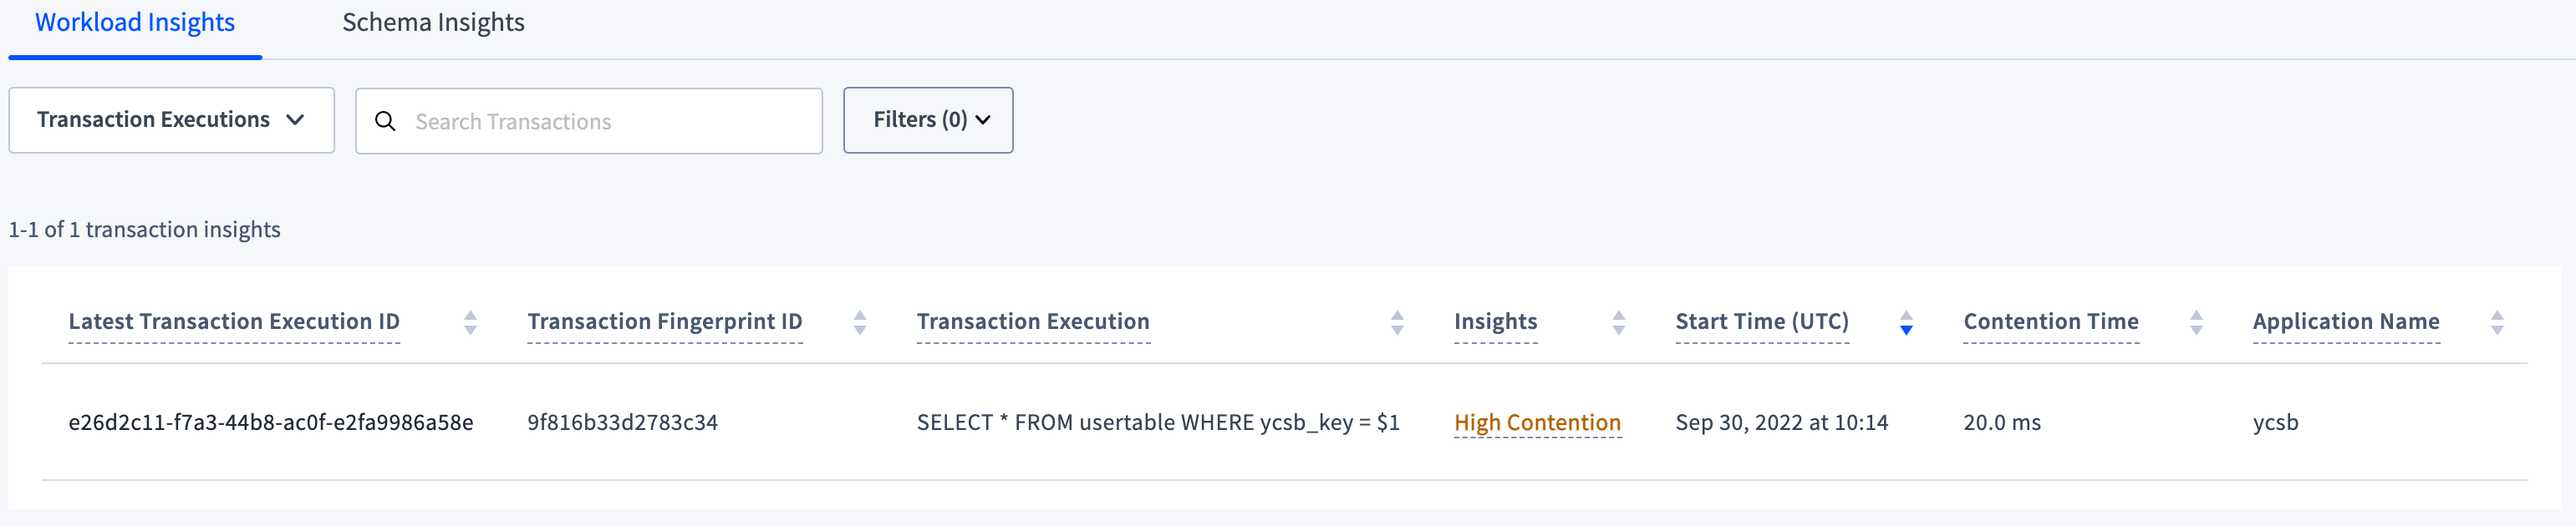
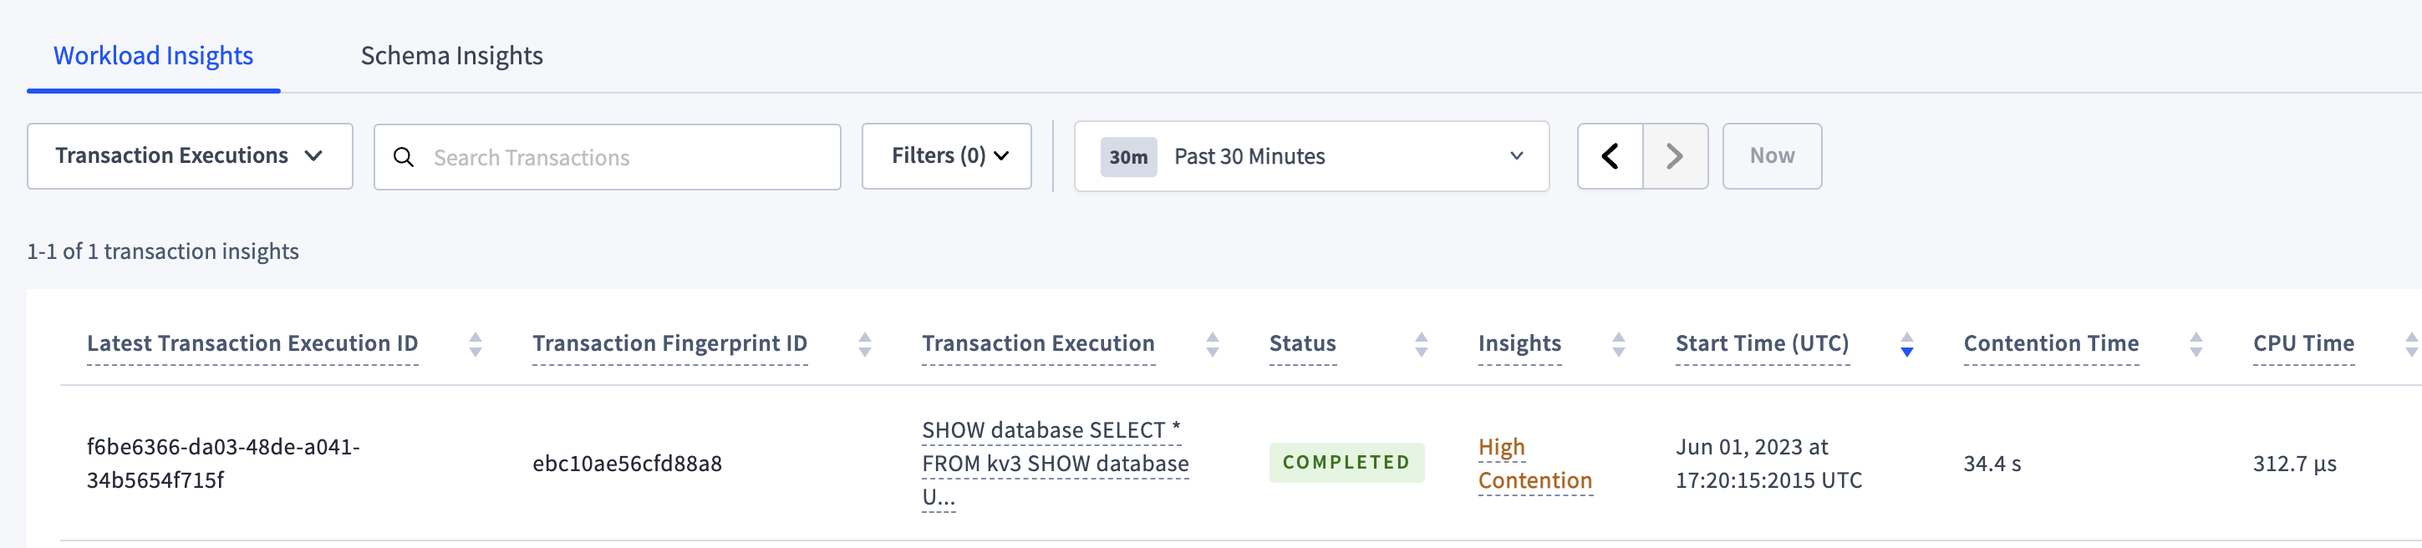
Re-worked Insights page regarding Workload Insight. (1) Replaced table crdb_internal.transaction_execution_insights with crdb_internal.cluster_txn_execution_insights. (2) Added Statement Execution with ID {transaction ID} waited on section. (3) Changed Statement Execution Details section to header 3

diff --git a/src/current/_includes/v23.1/ui/insights.md b/src/current/_includes/v23.1/ui/insights.md
@@ -15,19 +15,11 @@ To display this view, click **Insights** in the left-hand navigation of the Clou
 The **Transaction Executions** view provides an overview of all [transaction executions]({{ link_prefix }}transactions.html) that have been flagged with insights.
 
 {{site.data.alerts.callout_info}}
-The rows in this page are populated from the [`crdb_internal.transaction_contention_events`]({{ link_prefix }}crdb-internal.html#transaction_contention_events) and  `crdb_internal.transaction_execution_insights` tables.
+The rows in this page are populated from the [`crdb_internal.transaction_contention_events`]({{ link_prefix }}crdb-internal.html#transaction_contention_events) and  `crdb_internal.cluster_txn_execution_insights` tables.
 
-- The results displayed in the **Transaction Executions** view will be available as long as a corresponding row in the `crdb_internal.transaction_contention_events` or `crdb_internal.transaction_execution_insights` tables exists. The rows in `crdb_internal.transaction_contention_events` on each node must use less space than `sql.contention.event_store.capacity`, and the rows in `crdb_internal.transaction_contention_events` cannot exceed `sql.insights.execution_insights_capacity`.
+- The results displayed in the **Transaction Executions** view will be available as long as a corresponding row in the `crdb_internal.transaction_contention_events` or `crdb_internal.cluster_txn_execution_insights` tables exists. The rows in `crdb_internal.transaction_contention_events` on each node must use less space than `sql.contention.event_store.capacity`, and the rows in `crdb_internal.transaction_contention_events` cannot exceed `sql.insights.execution_insights_capacity`.
 - The default tracing behavior captures a small percent of transactions so not all contention events will be recorded. When investigating [transaction contention]({{ link_prefix }}performance-best-practices-overview.html#transaction-contention), you can set the [`sql.trace.txn.enable_threshold` cluster setting]({{ link_prefix }}cluster-settings.html#setting-sql-trace-txn-enable-threshold) to always capture contention events.
 {{site.data.alerts.end}}
-
-Transaction executions with the **High Contention** insight are transactions that experienced [contention]({{ link_prefix }}performance-best-practices-overview.html#transaction-contention).
-
-{% if page.cloud != true -%}
-The following screenshot shows the execution of a transaction flagged with **High Contention**:
-
-<img src="{{ 'images/v23.1/transaction_execution.png' | relative_url }}" alt="Transaction execution" style="border:1px solid #eee;max-width:100%" />
-{% endif -%}
 
 To view [details of the execution](#transaction-execution-details), click an execution ID in the **Latest Transaction Execution ID** column.
 
@@ -35,40 +27,41 @@ To view [details of the execution](#transaction-execution-details), click an exe
 - **Transaction Fingerprint ID**: The transaction fingerprint ID of the latest transaction execution.
 - **Transaction Execution**: The transaction fingerprint of the latest transaction execution.
 - **Status**: The status of the transaction: `Failed` or `Completed`.
-- **Insights**: The insight for the transaction execution.
-  - **High Contention**: The transaction execution experienced high [contention]({{ link_prefix }}performance-best-practices-overview.html#transaction-contention) time according to the threshold set in the [`sql.insights.latency_threshold` cluster setting]({{ link_prefix }}cluster-settings.html#setting-sql-insights-latency-threshold).
-  - **Suboptimal Plan**: The plan could be improved for some statement(s) in the transaction. Possible causes include outdated statistics and missing indexes.
-  - **Slow Execution**: The transaction had one or more statements that took longer than the value of the [`sql.insights.latency_threshold` cluster setting]({{ link_prefix }}cluster-settings.html#setting-sql-insights-latency-threshold) to execute.
-  - **Failed Execution**: The transaction execution failed.
+- **Insights**: The [insight type](#workload-insight-types) for the transaction execution.
 - **Start Time (UTC)**: The timestamp when the transaction execution started.
 - **Contention Time**: The amount of time the transaction execution spent waiting in [contention]({{ link_prefix }}performance-best-practices-overview.html#transaction-contention).
 - **CPU Time**: The amount of CPU time spent executing the transaction. The CPU time represents the time spent and work done within SQL execution operators.
 - **Application Name**: The name specified by the [`application_name` session setting]({{ link_prefix }}show-vars.html#supported-variables).
 
-### Transaction execution details
+### Transaction Execution details
 
 The transaction execution details view provides more details on a transaction execution insight.
 
-{% if page.cloud != true -%}
-The following screenshot shows the execution details of the transaction execution in the preceding section:
+- **Start Time**: The timestamp when the transaction execution started.
+- **End Time**: The timestamp when the transaction execution ended.
+- **Elapsed Time**: The time that elapsed during transaction execution.
+- **CPU Time**: The amount of CPU time spent executing the transaction. The CPU time represents the time spent and work done within SQL execution operators.
+- **Rows Read**: The total number of rows read by the transaction execution.
+- **Rows Written**: The total number of rows written by the transaction execution.
+- **Priority**: The [priority]({{ link_prefix }}transactions.html#set-transaction-priority) of the transaction execution.
+- **Number of Retries**: The total number of retries of the transaction.
+- **Session ID**: The ID of the [session]({{ link_prefix }}ui-sessions-page.html) the transaction was executed from.
+- **Application**: The name specified by the [`application_name` session setting]({{ link_prefix }}show-vars.html#supported-variables).
+- **Transaction Fingerprint ID**: The fingerprint ID of the transaction execution.
 
-<img src="{{ 'images/v22.2/transaction_execution_details.png' | relative_url }}" alt="Transaction execution details" style="border:1px solid #eee;max-width:100%" />
-{% endif -%}
-
-The **Insights** column shows the name of the insight, in this case **High Contention**; the **Details** column provides details on the insight.
-
-- **Start Time (UTC)**: The time the transaction execution started.
-- **Transaction Fingerprint ID**: The transaction fingerprint ID of the transaction execution.
+The **Insights** column shows the name of the insight. The **Details** column provides details on the insight.
 
 #### Transaction with ID {transaction ID} waited on
 
-This section provides details of the transaction executions that block the transaction ID flagged with **High Contention**:
+This section provides details of the transaction executions that block the transaction ID flagged with [**High Contention**](#high-contention):
 
 - **Transaction Execution ID**: The execution ID of the blocking transaction execution.
 - **Transaction Fingerprint ID**: The transaction fingerprint ID of the blocking transaction execution.
+- **Statement Waiting Execution ID**: The execution ID of the waiting statement.
+- **Statement Waiting Fingerprint ID**: The statement fingerprint ID of the waiting statement.
 - **Transaction Execution**: The queries attempted in the transaction.
 - **Contention Start Time (UTC)**: The timestamp at which [contention]({{ link_prefix }}performance-best-practices-overview.html#transaction-contention) was detected for the transaction.
-- **Contention Time**: The time transactions with this execution ID was [in contention]({{ link_prefix }}performance-best-practices-overview.html#understanding-and-avoiding-transaction-contention) with other transactions within the specified time interval.
+- **Contention Time**: The time that transactions with this execution ID were [in contention]({{ link_prefix }}performance-best-practices-overview.html#understanding-and-avoiding-transaction-contention) with other transactions within the specified time interval.
 - **Schema Name**: The name of the contended schema.
 - **Database Name**: The name of the contended database.
 - **Table Name**: The name of the contended table.
@@ -96,26 +89,12 @@ The rows in this page are populated from the [`crdb_internal.cluster_execution_i
 {% endif %}
 {{site.data.alerts.end}}
 
-{% if page.cloud != true -%}
-The following screenshot shows the statement execution of the query described in [Use the right index]({{ link_prefix }}apply-statement-performance-rules.html#rule-2-use-the-right-index):
-
-<img src="{{ 'images/v22.2/statement_executions.png' | relative_url }}" alt="Statement execution" style="border:1px solid #eee;max-width:100%" />
-{% endif -%}
-
 To view [details of the execution](#statement-execution-details), click an execution ID in the **Statement Execution ID** column.
 
 - **Statement Execution ID**: The execution ID of the latest execution with the statement fingerprint.
 - **Statement Fingerprint ID**: The statement fingerprint ID of the latest statement execution.
 - **Statement Execution**: The [statement fingerprint]({{ link_prefix }}ui-statements-page.html#sql-statement-fingerprints) of the latest statement execution.
-- **Insights**: The insight for the statement execution.
-  - **High Contention**: The statement execution experienced high [contention]({{ link_prefix }}performance-best-practices-overview.html#transaction-contention) time according to the threshold set in the [`sql.insights.latency_threshold` cluster setting]({{ link_prefix }}cluster-settings.html#setting-sql-insights-latency-threshold).
-  - **High Retry Count**: The statement execution experienced a high number of [retries]({{ link_prefix }}transactions.html#automatic-retries) according to the threshold set in the [`sql.insights.high_retry_count.threshold` cluster setting]({{ link_prefix }}cluster-settings.html#setting-sql-insights-high-retry-count-threshold).
-  - **Suboptimal Plan**: The statement execution has resulted in one or more [index recommendations](#schema-insights-tab) that would improve the plan.
-  - **Failed**: The statement execution failed.
-  - **Slow Execution**: The statement experienced slow execution. Depending on the settings in [Configuration](#configuration), either of the following conditions trigger this insight:
-
-      - Execution time is greater than the value of the [`sql.insights.latency_threshold` cluster setting]({{ link_prefix }}cluster-settings.html#setting-sql-insights-latency-threshold).
-      - Anomaly detection is enabled (`sql.insights.anomaly_detection.enabled`), execution time is greater than the value of `sql.insights.anomaly_detection.latency_threshold`, and [execution latency]({{ link_prefix }}ui-sql-dashboard.html#kv-execution-latency-99th-percentile) is greater than the p99 latency and more than double the median latency. For details, see [Detect slow executions](#detect-slow-executions).
+- **Insights**: The [insight type](#workload-insight-types) for the statement execution.
 - **Start Time (UTC)**: The timestamp when the statement execution started.
 - **Elapsed Time**: The time that elapsed to complete the statement execution.
 - **User Name**: The name of the user that invoked the statement execution.
@@ -127,29 +106,107 @@ To view [details of the execution](#statement-execution-details), click an execu
 - **Transaction Execution ID**: The ID of the transaction execution for the statement execution.
 - **Transaction Fingerprint ID**: The ID of the transaction fingerprint for the statement execution.
 
-#### Statement execution details
+### Statement Execution details
 
 The statement execution details view provides more details on a statement execution insight.
-
-{% if page.cloud != true -%}
-The following screenshot shows the execution details of the statement execution in the preceding section:
-
-<img src="{{ 'images/v22.2/statement_execution_details.png' | relative_url }}" alt="Statement execution details" style="border:1px solid #eee;max-width:100%" />
-{% endif -%}
-
-The **Insights** column shows the name of the insight, in this case **Suboptimal Plan**; the **Details** column provides details on the insight; and the final column contains a **Create Index** button. Click the **Create Index** button to perform a query to mitigate the cause of the insight, in this case to create an index on the ride `start_time` that stores the `rider_id`.
 
 - **Start Time**: The timestamp when the statement execution started.
 - **End Time**: The timestamp when the statement execution ended.
 - **Elapsed Time**: The time that elapsed during statement execution.
-- **Rows Read**: The total number of rows read.
-- **Rows Written**: The total number of rows written.
+- **CPU Time**: The amount of CPU time spent executing the statement. The CPU time represents the time spent and work done within SQL execution operators.
+- **Rows Read**: The total number of rows read by the statement execution.
+- **Rows Written**: The total number of rows written by the statement execution.
 - **Transaction Priority**: The [priority]({{ link_prefix }}transactions.html#set-transaction-priority) of the transaction for the statement execution.
 - **Full Scan**: Whether the execution performed a full scan of the table.
+- **Transaction Retries**: The total number of retries of the transaction for the statement execution.
 - **Session ID**: The ID of the [session]({{ link_prefix }}ui-sessions-page.html) the statement was executed from.
 - **Transaction Fingerprint ID**: The ID of the transaction fingerprint for the statement execution.
 - **Transaction Execution ID**: The ID of the transaction execution for the statement execution.
 - **Statement Fingerprint ID**: The fingerprint ID of the statement fingerprint for the statement execution.
+
+#### Statement with ID {transaction ID} waited on
+
+This section provides details of the transaction executions that block the statement ID flagged with [**High Contention**](#high-contention):
+
+- **Transaction Execution ID**: The execution ID of the blocking transaction execution.
+- **Transaction Fingerprint ID**: The transaction fingerprint ID of the blocking transaction execution.
+- **Contention Time**: The time that transactions with this execution ID were [in contention]({{ link_prefix }}performance-best-practices-overview.html#understanding-and-avoiding-transaction-contention) with other transactions within the specified time interval.
+- **Database Name**: The name of the contended database.
+- **Schema Name**: The name of the contended schema.
+- **Table Name**: The name of the contended table.
+- **Index Name**: The name of the contended index.
+
+## Workload Insight types
+
+The Workload Insights tab surfaces the following type of insights:
+
+- [Failed Execution](#failed-execution)
+- [High Contention](#high-contention)
+- [High Retry Count](#high-retry-count)
+- [Slow Execution](#slow-execution)
+- [Suboptimal Plan](#suboptimal-plan)
+
+### Failed Execution
+
+The transaction or statement execution failed.
+
+{% if page.cloud != true -%}
+The following screenshot shows a failed statement execution:
+
+<img src="{{ 'images/v23.1/statement_executions_failed.png' | relative_url }}" alt="Failed statement execution" style="border:1px solid #eee;max-width:100%" />
+
+The following screenshot shows the execution details of the preceding failed statement execution.
+
+<img src="{{ 'images/v23.1/statement_execution_details_failed.png' | relative_url }}" alt="Failed statement execution details" style="border:1px solid #eee;max-width:100%" />
+
+{% endif -%}
+
+The **Insights** column shows the name of the insight, in this case **Failed Execution**. The **Details** column provides the **Error Code**, such as `40001`. CockroachDB uses [PostgreSQL Error Codes](https://www.postgresql.org/docs/current/errcodes-appendix.html). `40001` indicates a `serialization_failure`.
+
+### High Contention
+
+The transaction or statement execution experienced high [contention]({{ link_prefix }}performance-best-practices-overview.html#transaction-contention) time according to the threshold set in the [`sql.insights.latency_threshold` cluster setting]({{ link_prefix }}cluster-settings.html#setting-sql-insights-latency-threshold).
+
+{% if page.cloud != true -%}
+The following screenshot shows the execution of a transaction flagged with **High Contention**:
+
+<img src="{{ 'images/v23.1/transaction_execution.png' | relative_url }}" alt="Transaction execution" style="border:1px solid #eee;max-width:100%" />
+
+The following screenshot shows the execution details of the preceding transaction execution:
+
+<img src="{{ 'images/v23.1/transaction_execution_details.png' | relative_url }}" alt="Transaction execution details" style="border:1px solid #eee;max-width:100%" />
+
+{% endif -%}
+
+### High Retry Count
+
+The statement execution experienced a high number of [retries]({{ link_prefix }}transactions.html#automatic-retries) according to the threshold set in the [`sql.insights.high_retry_count.threshold` cluster setting]({{ link_prefix }}cluster-settings.html#setting-sql-insights-high-retry-count-threshold).
+
+### Slow Execution
+
+The statement (or a statement in the transaction) experienced slow execution. Depending on the settings in [Configuration](#configuration), either of the following conditions trigger this insight:
+
+- Execution time is greater than the value of the [`sql.insights.latency_threshold` cluster setting]({{ link_prefix }}cluster-settings.html#setting-sql-insights-latency-threshold).
+- Anomaly detection is enabled (`sql.insights.anomaly_detection.enabled`), execution time is greater than the value of `sql.insights.anomaly_detection.latency_threshold`, and [execution latency]({{ link_prefix }}ui-sql-dashboard.html#kv-execution-latency-99th-percentile) is greater than the p99 latency and more than double the median latency. For details, see [Detect slow executions](#detect-slow-executions).
+
+### Suboptimal Plan
+
+The plan could be improved for some statement(s) in the transaction execution. Possible causes include outdated statistics and missing indexes.
+
+The statement execution has resulted in one or more [index recommendations](#schema-insights-tab) that would improve the plan.
+
+{% if page.cloud != true -%}
+The following screenshot shows the statement execution of the query described in [Use the right index]({{ link_prefix }}apply-statement-performance-rules.html#rule-2-use-the-right-index):
+
+<img src="{{ 'images/v23.1/statement_executions.png' | relative_url }}" alt="Statement execution" style="border:1px solid #eee;max-width:100%" />
+
+The following screenshot shows the execution details of the preceding statement execution:
+
+<img src="{{ 'images/v23.1/statement_execution_details.png' | relative_url }}" alt="Statement execution details" style="border:1px solid #eee;max-width:100%" />
+
+{% endif -%}
+
+The **Insights** column shows the name of the insight, in this case **Suboptimal Plan**; the **Details** column provides details on the insight; and the final column contains a **Create Index** button. Click the **Create Index** button to perform a query to mitigate the cause of the insight, in this case to create an index on the ride `start_time` that stores the `rider_id`.
 
 ## Schema Insights tab
 
@@ -169,6 +226,7 @@ This view lists the [indexes]({{ link_prefix }}indexes.html) that have not been 
 The following screenshot shows the insight that displays after you run the query described in [Use the right index]({{ link_prefix }}apply-statement-performance-rules.html#rule-2-use-the-right-index) 6 or more times:
 
 <img src="{{ 'images/v22.2/schema_insight.png' | relative_url }}" alt="Schema insight" style="border:1px solid #eee;max-width:100%" />
+
 {% endif -%}
 
 CockroachDB uses the threshold of 6 executions before offering an insight because it assumes that you are no longer merely experimenting with a query at that point.
